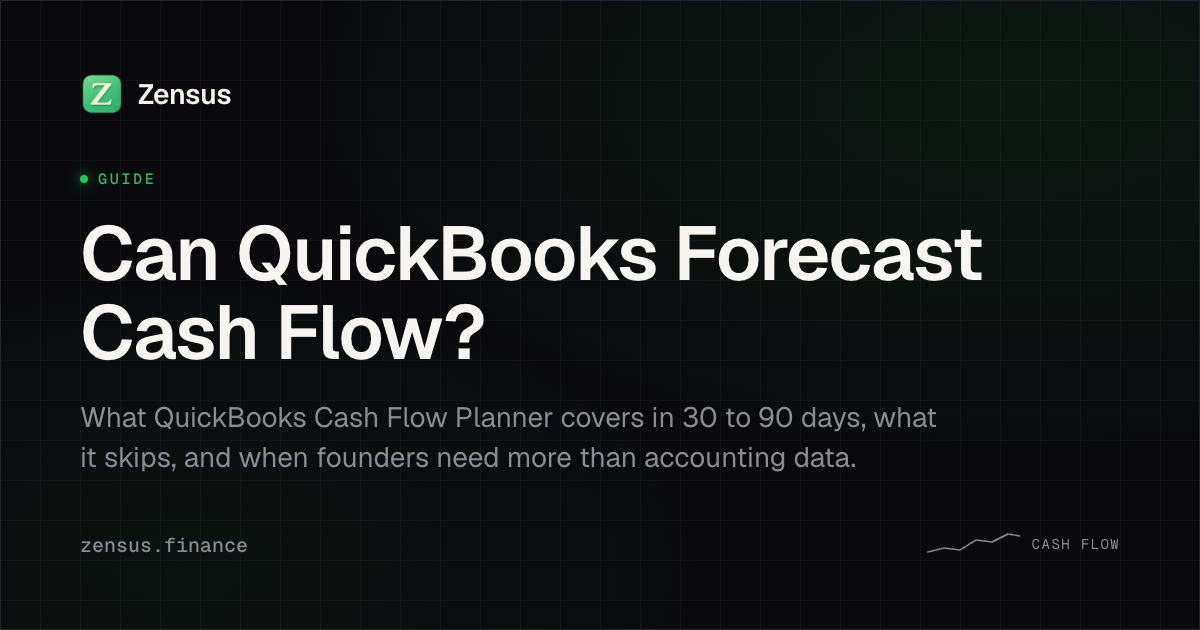
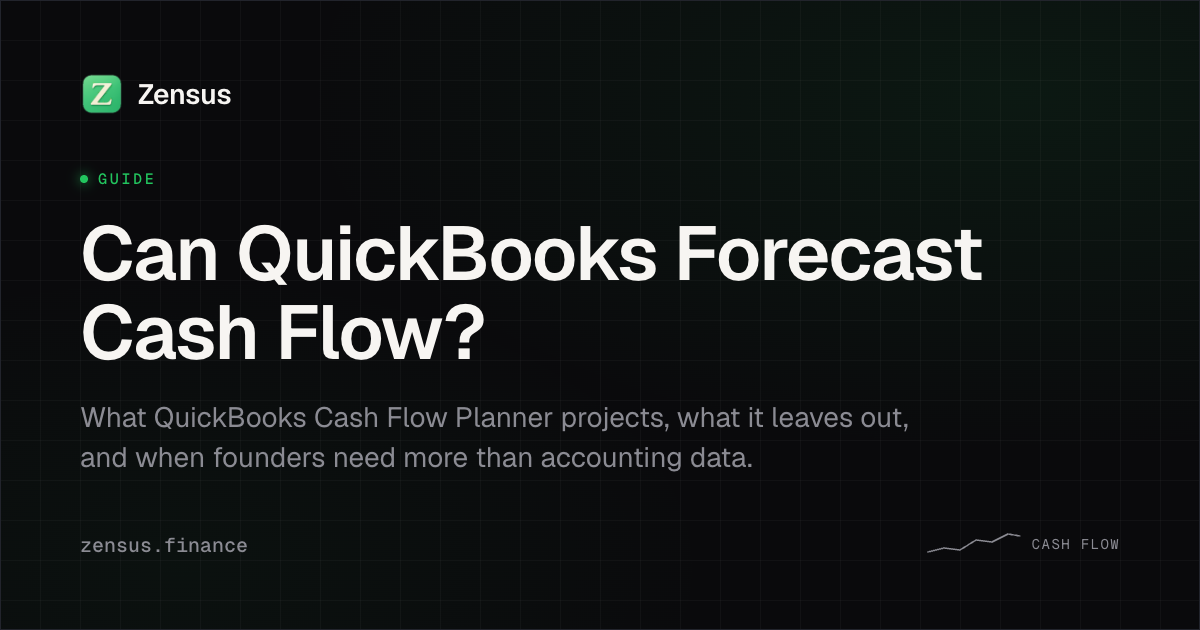
Fix accuracy: QuickBooks horizon, zero-cash example, founder link, pricing copy (#115)
QuickBooks guide: Intuit's US help pages state no forecast horizon, so the
"30 to 90 days" claim is gone. The horizon section now cites Intuit's
Cash Flow Planner FAQ (the 24-month chart view shows 14 months ahead) and
links all four Intuit articles the facts come from. The exclusions list
matches Intuit's page word for word, the Multicurrency quote is complete,
and the data-flow diagram is cropped to drop its drawn "30-90 Day
Forecast" panel.

Zero cash date post: the old weekly table did not average $50K a month.
The rebuilt example is computed: $30K biweekly payroll, a $36K annual
prepayment in week 1, and a $100K renewal in week 22 burn exactly $300K
over 26 weeks, and cash runs out in week 20, about four and a half
months in.

Founder profile: ajinsunny.com no longer resolves, so index.html,
authors.ts and /about point to github.com/ajinsunny instead.

Pricing: "one plan" copy contradicted the Zensus Custom tier on /pricing.
The /pricing hero now states the price and trial terms in one
self-contained paragraph, and the three pricing FAQs carry FAQPage
markup. llms.txt, llms-full.txt and /llm-info add the card-at-signup
trial terms and Zensus Custom.

Claude-Session: https://claude.ai/code/session_01F3pKS8D7ZQo968cyXL6rVF

Changed region(s): [[0.0617, 0.6333, 0.7708, 0.754]]

diff --git a/src/pages/Pricing.tsx b/src/pages/Pricing.tsx
@@ -14,7 +14,7 @@ import { Button } from "@/components/ui/button";
 import { TalkToUsButton } from "@/components/landing/TalkToUsButton";
 import { SITE_URL, START_TRIAL_URL, TALK_TO_US_URL } from "@/lib/constants";
 import { trackCtaClick } from "@/lib/analytics/events";
-import { breadcrumbSchema, HOME_CRUMB } from "@/lib/structured-data";
+import { breadcrumbSchema, faqPageSchema, HOME_CRUMB } from "@/lib/structured-data";
 
 const breadcrumbs = breadcrumbSchema([
   HOME_CRUMB,
@@ -87,6 +87,10 @@ const pricingFaqs = [
   },
 ];
 
+// The three questions above are shown on the page word for word, so they
+// can carry FAQPage markup.
+const pricingFaqLd = faqPageSchema(pricingFaqs);
+
 const decideLinkCls = "font-medium text-primary underline-offset-4 hover:underline";
 
 const Pricing = () => (
@@ -95,7 +99,7 @@ const Pricing = () => (
       <title>Zensus Pricing · $199/mo Cash Flow Forecasting Software</title>
       <meta
         name="description"
-        content="Try Zensus Pro free for 14 days. Then $199/month. One plan with every integration, real-time cash flow intelligence, scenario modeling, and Slack alerts."
+        content="Zensus Pro is $199/month after a 14-day free trial, with every integration, scenario modeling, and Slack alerts. Zensus Custom is quoted for complex setups."
       />
       <meta property="og:type" content="website" />
       <meta property="og:url" content={`${SITE_URL}/pricing`} />
@@ -103,7 +107,7 @@ const Pricing = () => (
       <meta property="og:title" content="Zensus Pricing · $199/mo Cash Flow Forecasting for Businesses" />
       <meta
         property="og:description"
-        content="Try Zensus Pro free for 14 days. Then $199/month. One plan with every integration, real-time cash flow intelligence, scenario modeling, and Slack alerts."
+        content="Zensus Pro is $199/month after a 14-day free trial, with every integration, scenario modeling, and Slack alerts. Zensus Custom is quoted for complex setups."
       />
       <meta property="og:image" content={`${SITE_URL}/og/pricing.png`} />
       <meta property="og:image:width" content="1200" />
@@ -113,11 +117,12 @@ const Pricing = () => (
       <meta name="twitter:title" content="Zensus Pricing · $199/mo Cash Flow Forecasting for Businesses" />
       <meta
         name="twitter:description"
-        content="Try Zensus Pro free for 14 days. Then $199/month. One plan with every integration, real-time cash flow intelligence, scenario modeling, and Slack alerts."
+        content="Zensus Pro is $199/month after a 14-day free trial, with every integration, scenario modeling, and Slack alerts. Zensus Custom is quoted for complex setups."
       />
       <meta name="twitter:image" content={`${SITE_URL}/og/pricing.png`} />
       <link rel="canonical" href={`${SITE_URL}/pricing`} />
       <script type="application/ld+json">{JSON.stringify(breadcrumbs)}</script>
+      <script type="application/ld+json">{JSON.stringify(pricingFaqLd)}</script>
     </Helmet>
     <Navbar />
     <main className="pt-24 pb-16">
@@ -128,7 +133,7 @@ const Pricing = () => (
               Start free. 14 days on us.
             </h1>
             <p className="text-sm text-muted-foreground">
-              Every integration, real-time cash flow intelligence, scenario modeling, and Slack alerts. 14-day free trial, then $199 a month. Cancel anytime. Need a tailored setup instead? Talk to us.
+              Zensus Pro costs $199 a month, billed monthly, after a 14-day free trial. It includes every integration (Plaid, QuickBooks, HubSpot, and Slack), real-time cash flow intelligence, scenario modeling, and Slack alerts. Your card is collected at signup and not charged until the trial ends; cancel before then and you pay nothing. Need a tailored setup instead? Talk to us about Zensus Custom.
             </p>
           </div>
 

diff --git a/src/pages/About.tsx b/src/pages/About.tsx
@@ -8,7 +8,7 @@ import { TalkToUsButton } from "@/components/landing/TalkToUsButton";
 import { breadcrumbSchema, HOME_CRUMB } from "@/lib/structured-data";
 
 const PAGE_URL = `${SITE_URL}/about`;
-const PERSONAL_SITE = "https://ajinsunny.com";
+const PERSONAL_GITHUB = "https://github.com/ajinsunny";
 const PERSONAL_LINKEDIN = "https://www.linkedin.com/in/ajinsunny/";
 
 const breadcrumbs = breadcrumbSchema([
@@ -42,7 +42,7 @@ const ashwinPersonLd = {
 
 const personalLinks = [
   { label: "LinkedIn", href: PERSONAL_LINKEDIN, external: true },
-  { label: "ajinsunny.com", href: PERSONAL_SITE, external: true },
+  { label: "GitHub", href: PERSONAL_GITHUB, external: true },
 ];
 
 const principles = [
@@ -55,8 +55,8 @@ const principles = [
     body: "Bank and accounting credentials live with Plaid and Intuit, never with us. Your data never trains an AI model. Every query is isolated by account.",
   },
   {
-    title: 'No contracts, no "contact sales."',
-    body: "One plan at a public price. Sign up, connect your data, cancel the same day if it is not a fit.",
+    title: "A public price. No contract.",
+    body: "Zensus Pro is $199 a month, billed monthly. Sign up, connect your data, and cancel the same day if it is not a fit. Teams that need a tailored setup can talk to us about Zensus Custom.",
   },
 ];
 

diff --git a/src/pages/UseCases.tsx b/src/pages/UseCases.tsx
@@ -38,7 +38,7 @@ const FAQS = [
   {
     question: "Who is Zensus for?",
     answer:
-      "Zensus is for businesses of any size with lumpy cash flow: annual and quarterly contracts, seasonal swings, usage-based pricing, late-paying clients, and payroll that has to clear. It connects QuickBooks, bank accounts via Plaid, and HubSpot, and costs $199 per month on a single plan.",
+      "Zensus is for businesses of any size with lumpy cash flow: annual and quarterly contracts, seasonal swings, usage-based pricing, late-paying clients, and payroll that has to clear. It connects QuickBooks, bank accounts via Plaid, and HubSpot, and Zensus Pro costs $199 per month.",
   },
   {
     question: "Does Zensus work for agencies with late-paying clients?",
@@ -207,7 +207,7 @@ const UseCases = () => (
             <Link to="/blog/zero-cash-date-for-founders" className={linkCls}>
               zero cash date
             </Link>
-            . One plan
+            . Zensus Pro
             covers every integration; see{" "}
             <Link to="/pricing" className={linkCls}>
               pricing

diff --git a/src/components/landing/FAQ.tsx b/src/components/landing/FAQ.tsx
@@ -59,7 +59,7 @@ const faqGroups = [
     items: [
       {
         question: "How does pricing work?",
-        answer: "Zensus Pro is $199 a month, billed monthly, cancel anytime. One plan with every integration (Plaid, QuickBooks, HubSpot, Slack), real-time cash flow, scenario modeling, and alerts. Every new account starts with a 14-day free trial. Your card is collected up front but not charged until the trial ends. Cancel anytime before then at no cost. Annual billing is not available yet.",
+        answer: "Zensus Pro is $199 a month, billed monthly, cancel anytime. It includes every integration (Plaid, QuickBooks, HubSpot, Slack), real-time cash flow, scenario modeling, and alerts. Every new account starts with a 14-day free trial. Your card is collected up front but not charged until the trial ends. Cancel anytime before then at no cost. Annual billing is not available yet. Teams that need a tailored setup, custom integrations, or dedicated onboarding can talk to us about Zensus Custom.",
       },
     ],
   },

diff --git a/src/pages/LlmInfo.tsx b/src/pages/LlmInfo.tsx
@@ -127,7 +127,9 @@ const LlmInfo = () => (
           <p className="text-muted-foreground">
             Zensus Pro: <strong className="text-foreground">$199 per month</strong>,
             billed monthly, cancel anytime. Includes all integrations, the cash
-            flow agent, and unlimited scenarios. 14-day free trial.
+            flow agent, and unlimited scenarios. 14-day free trial; your card is
+            collected at signup and not charged until the trial ends. Zensus
+            Custom, for teams that need a tailored setup, is quoted on request.
           </p>
         </section>
 

diff --git a/src/components/landing/PricingPreview.tsx b/src/components/landing/PricingPreview.tsx
@@ -13,7 +13,7 @@ const PricingPreview = () => (
         </h2>
         <p className="text-lg text-muted-foreground mb-8">
           Every integration, real-time cash flow intelligence, scenario
-          modeling, and Slack alerts. One price. Everything included. $199/mo
+          modeling, and Slack alerts, all included in Zensus Pro: $199/mo
           after your trial. Less than a single hour with a fractional CFO.
         </p>
         <div className="flex flex-col sm:flex-row items-center justify-center gap-4">

diff --git a/src/pages/tools/RunwayCalculator.tsx b/src/pages/tools/RunwayCalculator.tsx
@@ -448,7 +448,7 @@ const RunwayCalculator = () => {
               <p>
                 Zensus answers the same questions with your live financials:
                 it connects your bank, QuickBooks, and HubSpot and keeps your
-                zero-cash date current as real transactions clear. One plan,{" "}
+                zero-cash date current as real transactions clear. Zensus Pro is{" "}
                 <Link to="/pricing" className={linkCls}>
                   $199 per month
                 </Link>

diff --git a/src/pages/tools/PayrollCalendar.tsx b/src/pages/tools/PayrollCalendar.tsx
@@ -385,7 +385,7 @@ const PayrollCalendar = () => {
               </p>
               <p>
                 Zensus connects your bank, QuickBooks, and HubSpot and keeps payroll and every other
-                outflow on the dates they actually hit. One plan,{" "}
+                outflow on the dates they actually hit. Zensus Pro is{" "}
                 <Link to="/pricing" className={linkCls}>
                   $199 per month
                 </Link>

diff --git a/index.html b/index.html
@@ -56,7 +56,7 @@
               "Full-stack web development"
             ],
             "sameAs": [
-              "https://ajinsunny.com",
+              "https://github.com/ajinsunny",
               "https://www.linkedin.com/in/ajinsunny/"
             ]
           },

diff --git a/src/lib/authors.ts b/src/lib/authors.ts
@@ -24,7 +24,7 @@ export const authors = {
     jobTitle: "Founder & CEO",
     sameAs: [
       "https://www.linkedin.com/in/ajinsunny/",
-      "https://ajinsunny.com",
+      "https://github.com/ajinsunny",
     ],
   },
   ashwin: {
